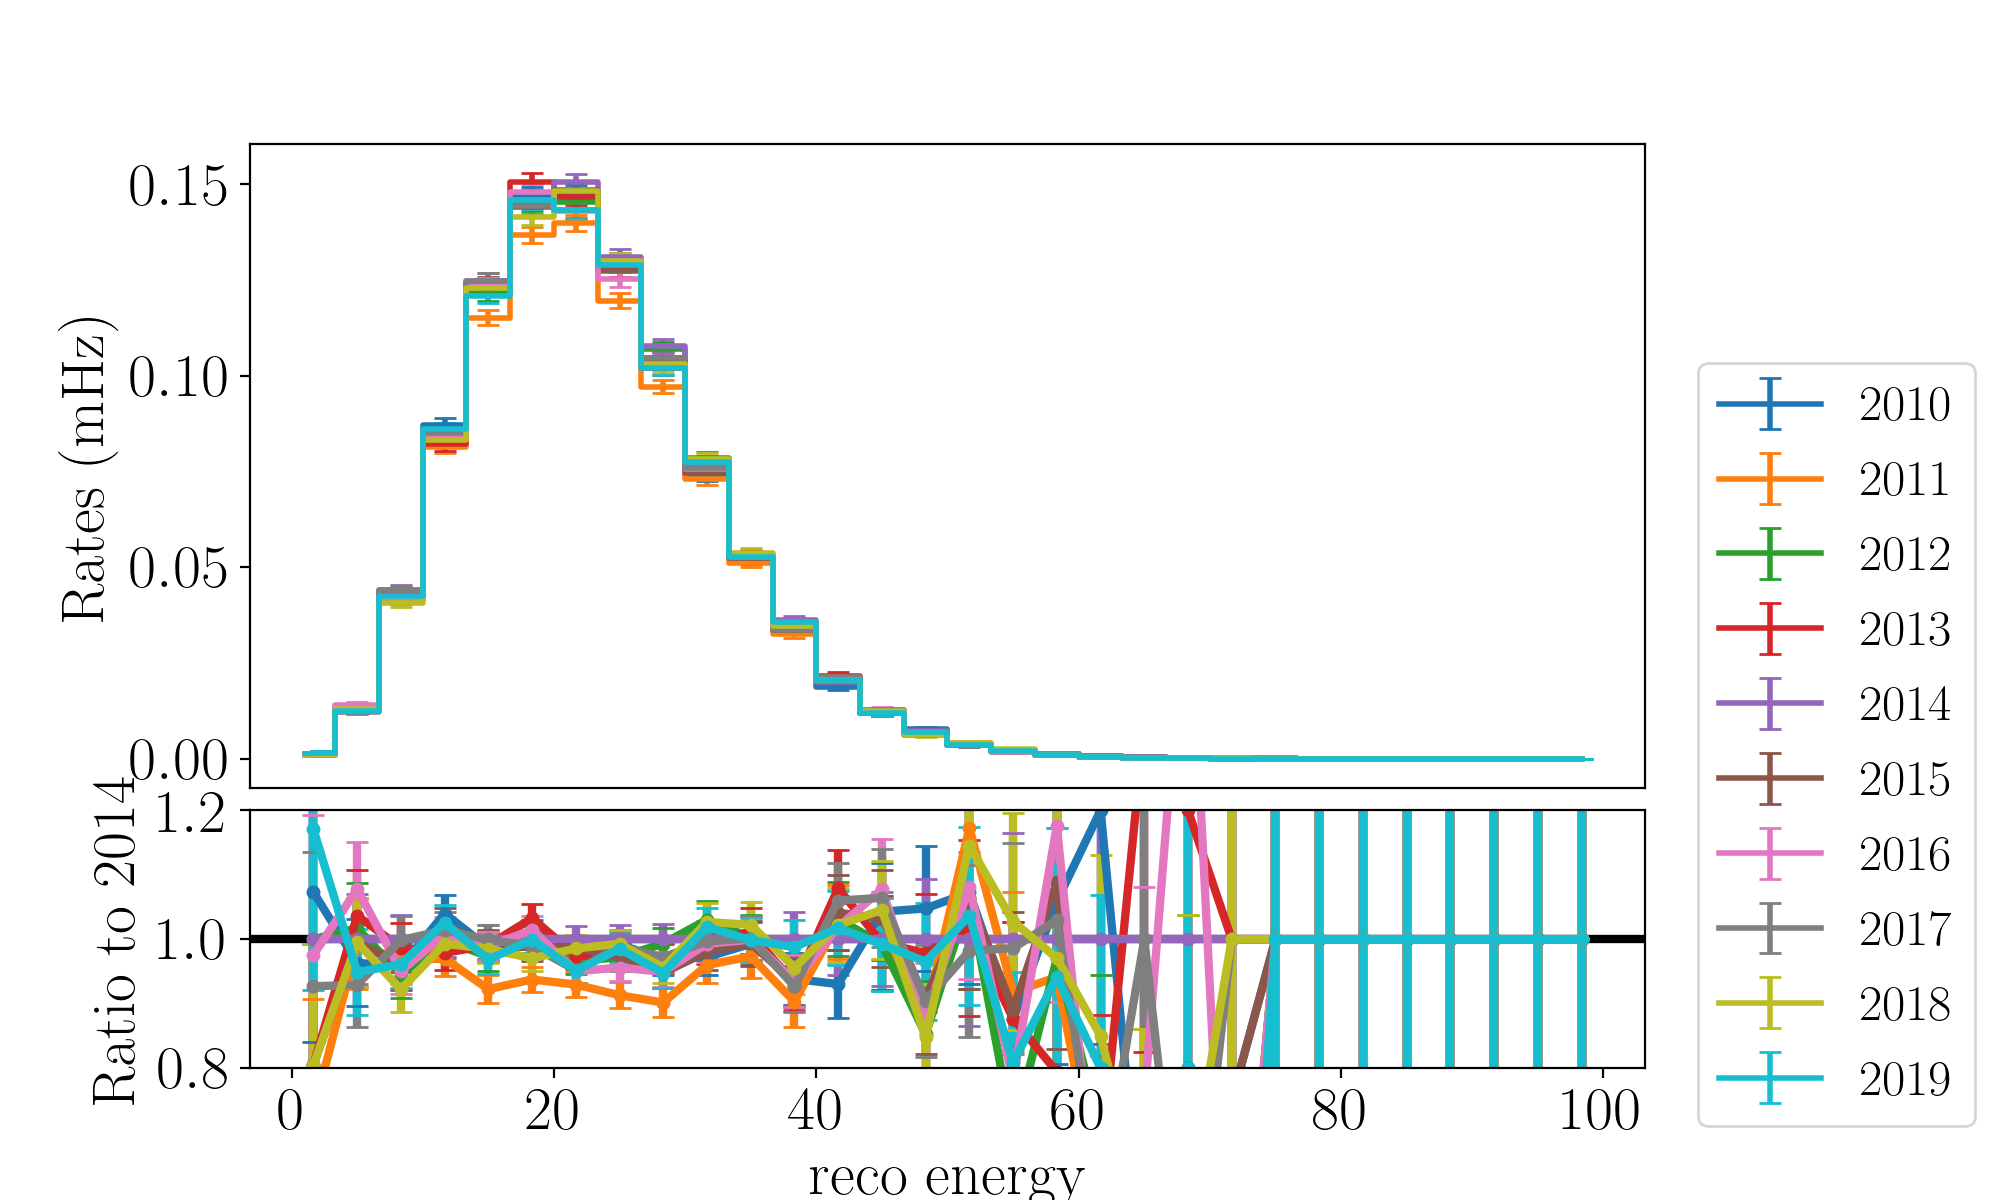
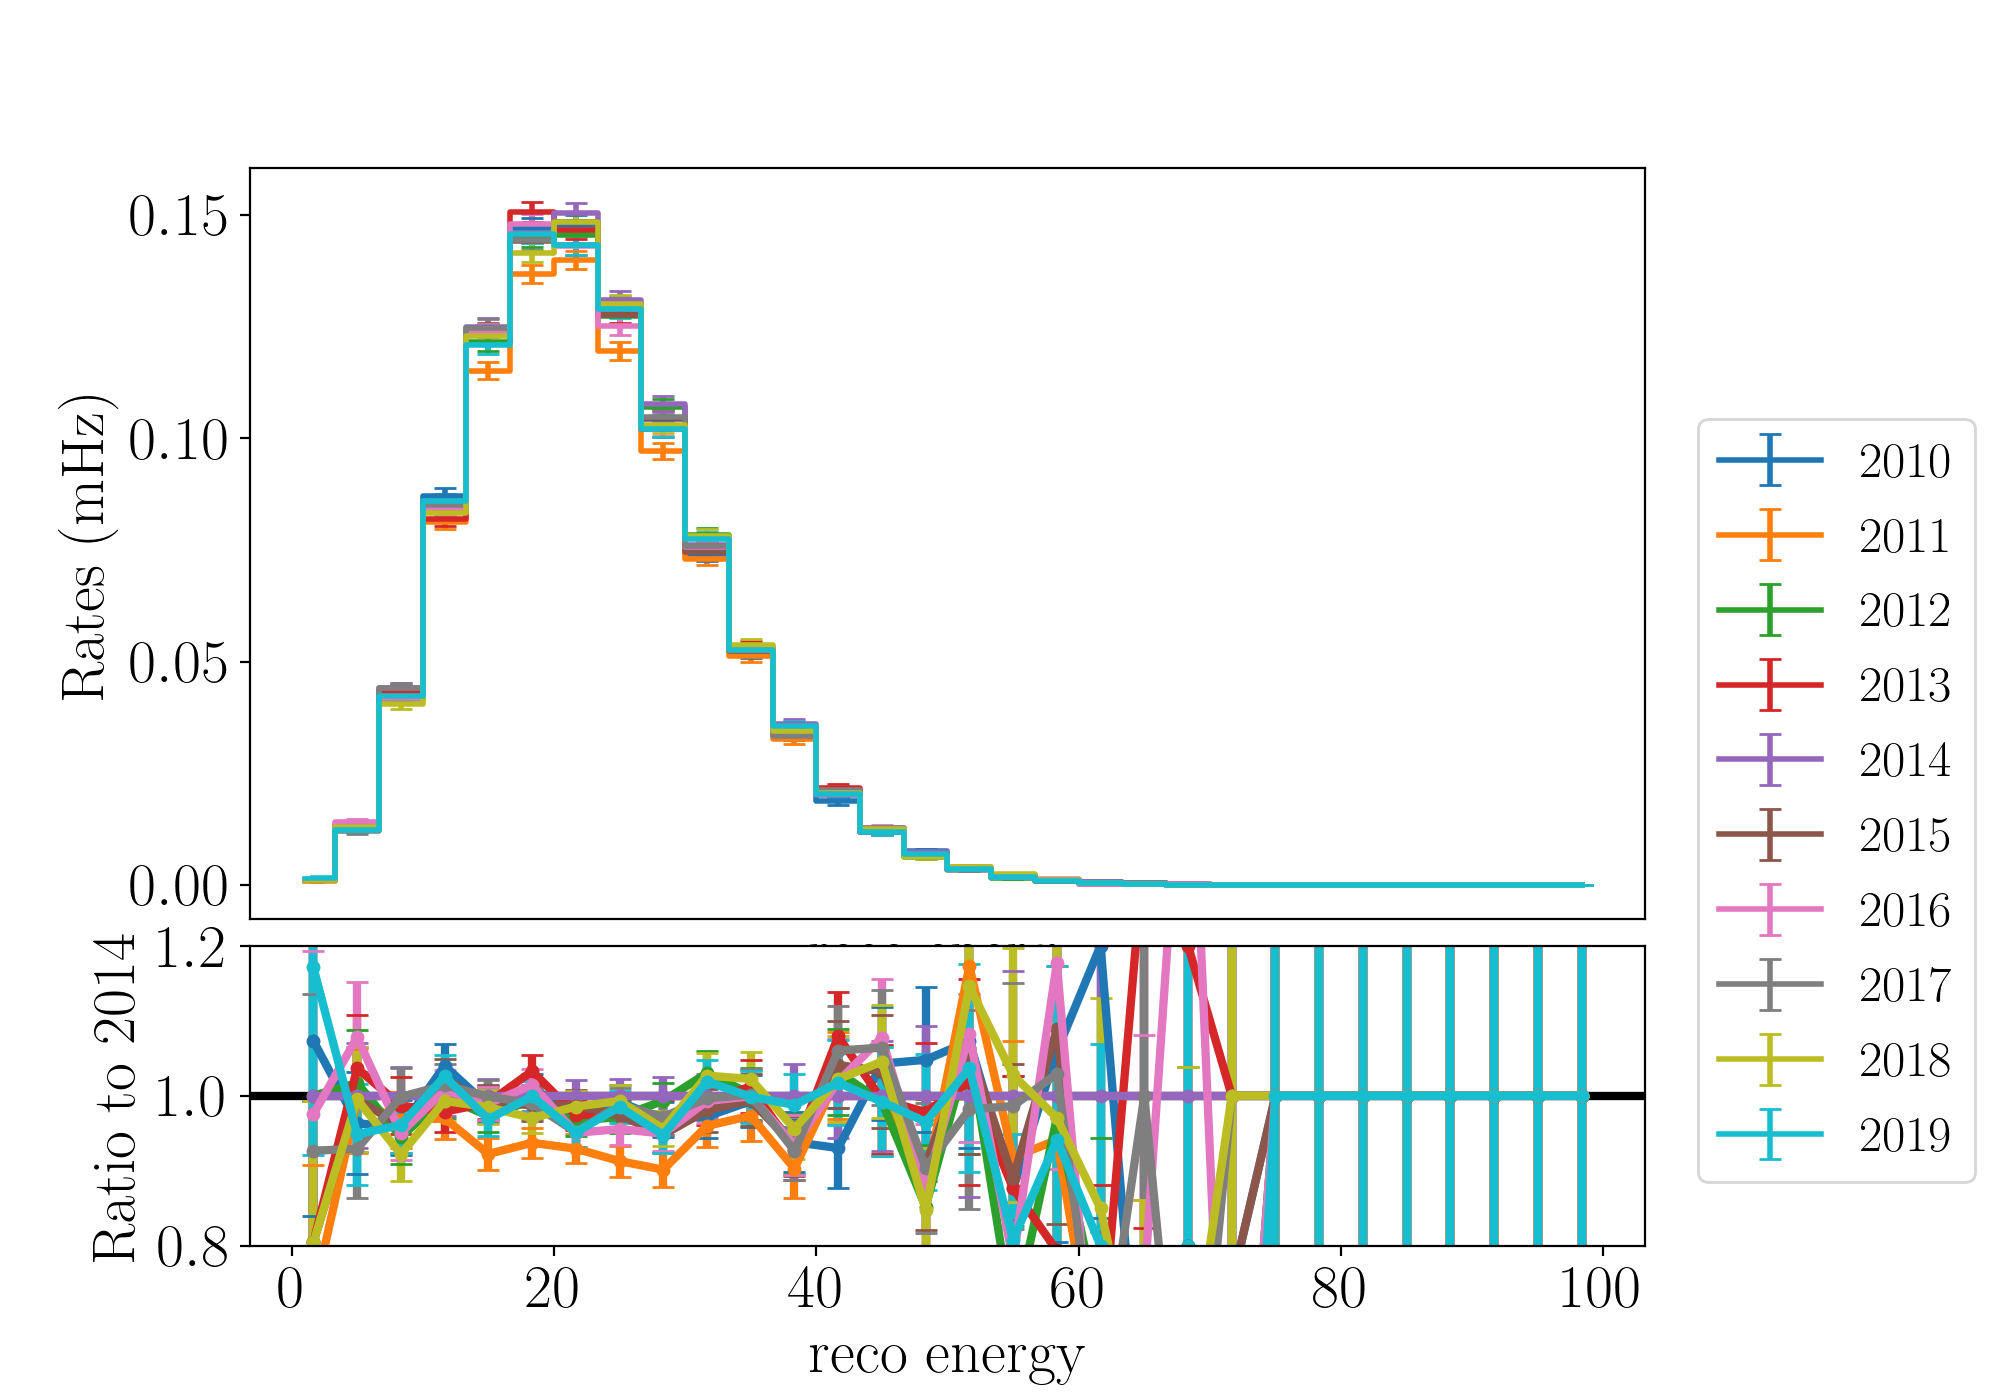
fixed width issues

diff --git a/seasonal_variations.py b/seasonal_variations.py
@@ -1371,7 +1371,7 @@ if __name__ == "__main__" :
 
         print('plotting: ',v)
         fig, ax = comparator.plot_yearly_ks_test(hist_key=v)
-        fig.tight_layout()
+        fig.set_size_inches([10.,9.5])
         plt.savefig('season_comparison_{}_ks.png'.format(v))
 
         fig, ax = comparator.plot_yearly_chi2(hist_key=v)
@@ -1380,7 +1380,7 @@ if __name__ == "__main__" :
         ax.get_xaxis().set_ticks([])
         comparator.plot_single_ratio(hist_key=v, fig=fig, grid_elements=gs)
         s = fig.get_size_inches()
-        fig.set_size_inches([10.,6.])
+        fig.set_size_inches([10.,7.])
 
         plt.savefig('season_comparison_{}_hist.png'.format(v))
 
